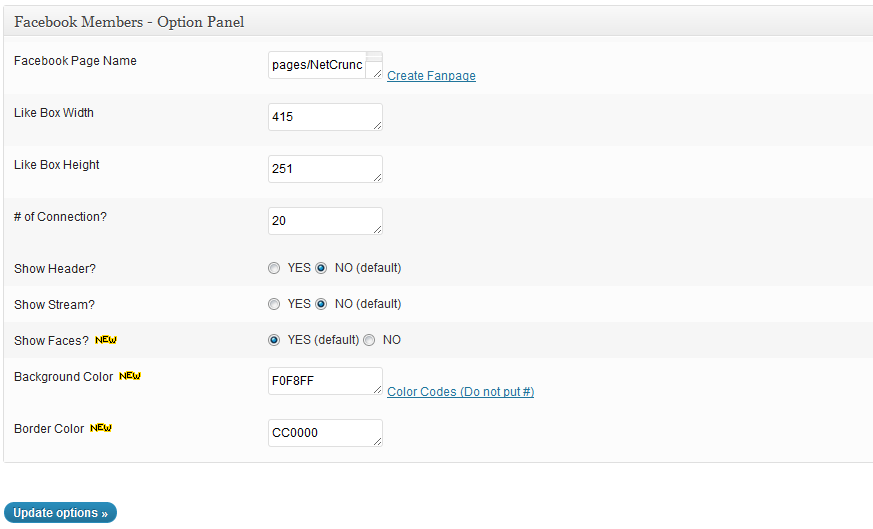
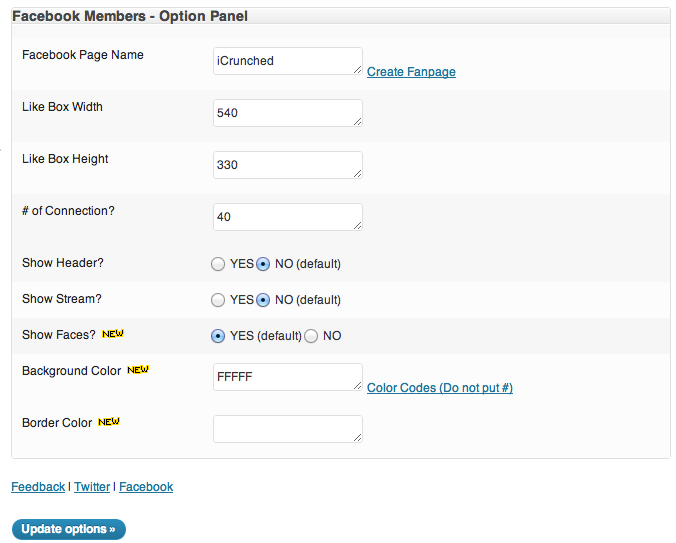
Update facebook-members to 4.5.2

diff --git a/wp-content/plugins/facebook-members/facebook-members.php b/wp-content/plugins/facebook-members/facebook-members.php
@@ -1,15 +1,15 @@
 <?php
 /*
 Plugin Name: Facebook Members
-Plugin URI: http://icrunchies.com/plugins/facebook-members/
+Plugin URI: http://icrunched.co/facebook-members/
 Description: Facebook Members is a WordPres Social Plugin that enables Facebook Page owners to attract and gain Likes from their own website. It uses Like Box.
-Version: 4.2.1
-Author: iCrunchies
-Author URI: http://iCrunchies.com
+Version: 4.5.2
+Author: icrunched
+Author URI: http://iCrunched.co
 */
 
 /*
-    Copyright (C) 2012 iCrunchies.com
+    Copyright (C) 2012 iCrunched.co
 
     This program is free software; you can redistribute it and/or modify
     it under the terms of the GNU General Public License as published by
@@ -90,7 +90,7 @@ function as_facebook_mem_likebox()
 	}
 	else
 	{
-		$sponserlink_profile = '<div align="left">- <a href="http://icrunchies.com/plugins/facebook-members/" title="Facebook Members WordPress Plugin" target="_blank"> <font size="1">' . 'Facebook Members WordPress Plugin' . '</font></a></div>';
+		$sponserlink_profile = '<div align="left">- <a href="http://icrunched.co/facebook-members/" title="Facebook Members WordPress Plugin" target="_blank"> <font size="1">' . 'Facebook Members WordPress Plugin' . '</font></a></div>';
 	}
 
 
@@ -147,7 +147,7 @@ function as_facebook_mem_options_page() {
 		update_option('as_facebook_mem_faces', (string)$_POST['as_facebook_mem_faces']);
 
         echo '<div id="message" class="updated fade"><p><strong>Settings saved.</strong></p></div>';
-        echo '</strong></p></div>';
+        echo '</strong>';
     }else
 	{
 			$as_facebook_mem_stream = get_option('as_facebook_mem_stream');
@@ -169,18 +169,30 @@ function as_facebook_mem_options_page() {
 
     <u><h2>Facebook Members Like Box Plugin</h2></u>
 
-
-	<div id="poststuff" class="metabox-holder has-right-sidebar" >
-		<div style="float:left;width:60%;">
-
-<iframe src="//www.facebook.com/plugins/likebox.php?href=https%3A%2F%2Fwww.facebook.com%2FiCrunchies&amp;width=292&amp;height=62&amp;colorscheme=light&amp;show_faces=false&amp;border_color&amp;stream=false&amp;header=false" scrolling="no" frameborder="0" style="border:none; overflow:hidden; width:292px; height:62px;" allowTransparency="true"></iframe>
-<br>
-<a href="https://twitter.com/iCrunchies" class="twitter-follow-button" data-show-count="false">Follow @iCrunchies</a>
+	<div align="left">
+	<br>
+	<h3>Follow us on Twitter & Facebook to get latest update:</h3>
+	
+	<a href="https://twitter.com/iCrunched" class="twitter-follow-button" data-show-count="false" data-size="large">Follow @iCrunched</a>
 <script>!function(d,s,id){var js,fjs=d.getElementsByTagName(s)[0];if(!d.getElementById(id)){js=d.createElement(s);js.id=id;js.src="//platform.twitter.com/widgets.js";fjs.parentNode.insertBefore(js,fjs);}}(document,"script","twitter-wjs");</script>
 
-&nbsp;&nbsp;&nbsp;&nbsp;&nbsp;		<a href="http://icrunchies.com/plugins/facebook-members/" target="_blank">Plugin Homepage</a>
+<iframe src="//www.facebook.com/plugins/likebox.php?href=http%3A%2F%2Fwww.facebook.com%2Fpages%2FiCrunchedco%2F117867008360385&amp;width=292&amp;height=62&amp;colorscheme=light&amp;show_faces=false&amp;border_color&amp;stream=false&amp;header=false" scrolling="no" frameborder="0" style="border:none; overflow:hidden; width:292px; height:62px;" allowTransparency="true"></iframe>
 
-<br>
+<script type="text/javascript"><!--
+google_ad_client = "ca-pub-4032710958875645";
+/* divinepushti.post */
+google_ad_slot = "2406932865";
+google_ad_width = 468;
+google_ad_height = 60;
+//-->
+</script>
+<script type="text/javascript"
+src="http://pagead2.googlesyndication.com/pagead/show_ads.js">
+</script>
+	</div>
+	
+		<div style="float:left;width:60%;">
+
 <br>
 
 
@@ -255,6 +267,9 @@ function as_facebook_mem_options_page() {
 				</table>
 			</div>
 			</div>
+			
+					<a href="http://icrunched.co/facebook-members/" target="_blank">Feedback</a> | <a href="http://twitter.com/iCrunched" target="_blank">Twitter</a> | <a href="http://www.facebook.com/pages/iCrunchedco/117867008360385" target="_blank">Facebook</a>
+
    		 <div class="submit">
 	        <input type="submit" name="info_update" class="button-primary" value="<?php _e('Update options'); ?> &raquo;" />
 
@@ -326,6 +341,9 @@ function as_facebook_mem_options_page() {
  					</table>
 					</div>
 		</div>
+		
+							<a href="http://icrunched.co/facebook-members/" target="_blank">Feedback</a> | <a href="http://twitter.com/iCrunched" target="_blank">Twitter</a> | <a href="http://www.facebook.com/pages/iCrunchedco/117867008360385" target="_blank">Facebook</a>
+
    		 <div class="submit">
 	        <input type="submit" name="info_update" class="button-primary" value="<?php _e('Update options'); ?> &raquo;" />
 
@@ -335,7 +353,6 @@ function as_facebook_mem_options_page() {
     </form>
 </div>
 
-	</div>
     </div>
 
 <?php
@@ -372,7 +389,7 @@ function show_as_facebook_mem_likebox_widget($args)
 	}
 	else
 	{
-		$sponserlink_profile = '<div align="left">- <a href="http://icrunchies.com/plugins/facebook-members/" title="Facebook Members WordPress Plugin" target="_blank"> <font size="1">' . 'Facebook Members WordPress Plugin' . '</font></a></div>';
+		$sponserlink_profile = '<div align="left">- <a href="http://icrunched.co/facebook-members/" title="Facebook Members WordPress Plugin" target="_blank"> <font size="1">' . 'Facebook Members WordPress Plugin' . '</font></a></div>';
 	}
 
  	$T2 = '<div id="likebox-frame"><iframe src="//www.facebook.com/plugins/likebox.php?href=http%3A%2F%2Fwww.facebook.com%2F'.$fm_widget_page_name.'&amp;width='.$fm_widget_width.'&amp;height='.$fm_widget_height.'&amp;colorscheme=light&amp;show_faces='.$fm_widget_faces.'&amp;border_color&amp;stream='.$fm_widget_stream.'&amp;header=false" scrolling="no" frameborder="0" style="border:none; overflow:hidden; width:'.$fm_widget_width.'px; height:'.$fm_widget_height.'px; margin:-1px;" allowTransparency="true"></iframe></div>';
